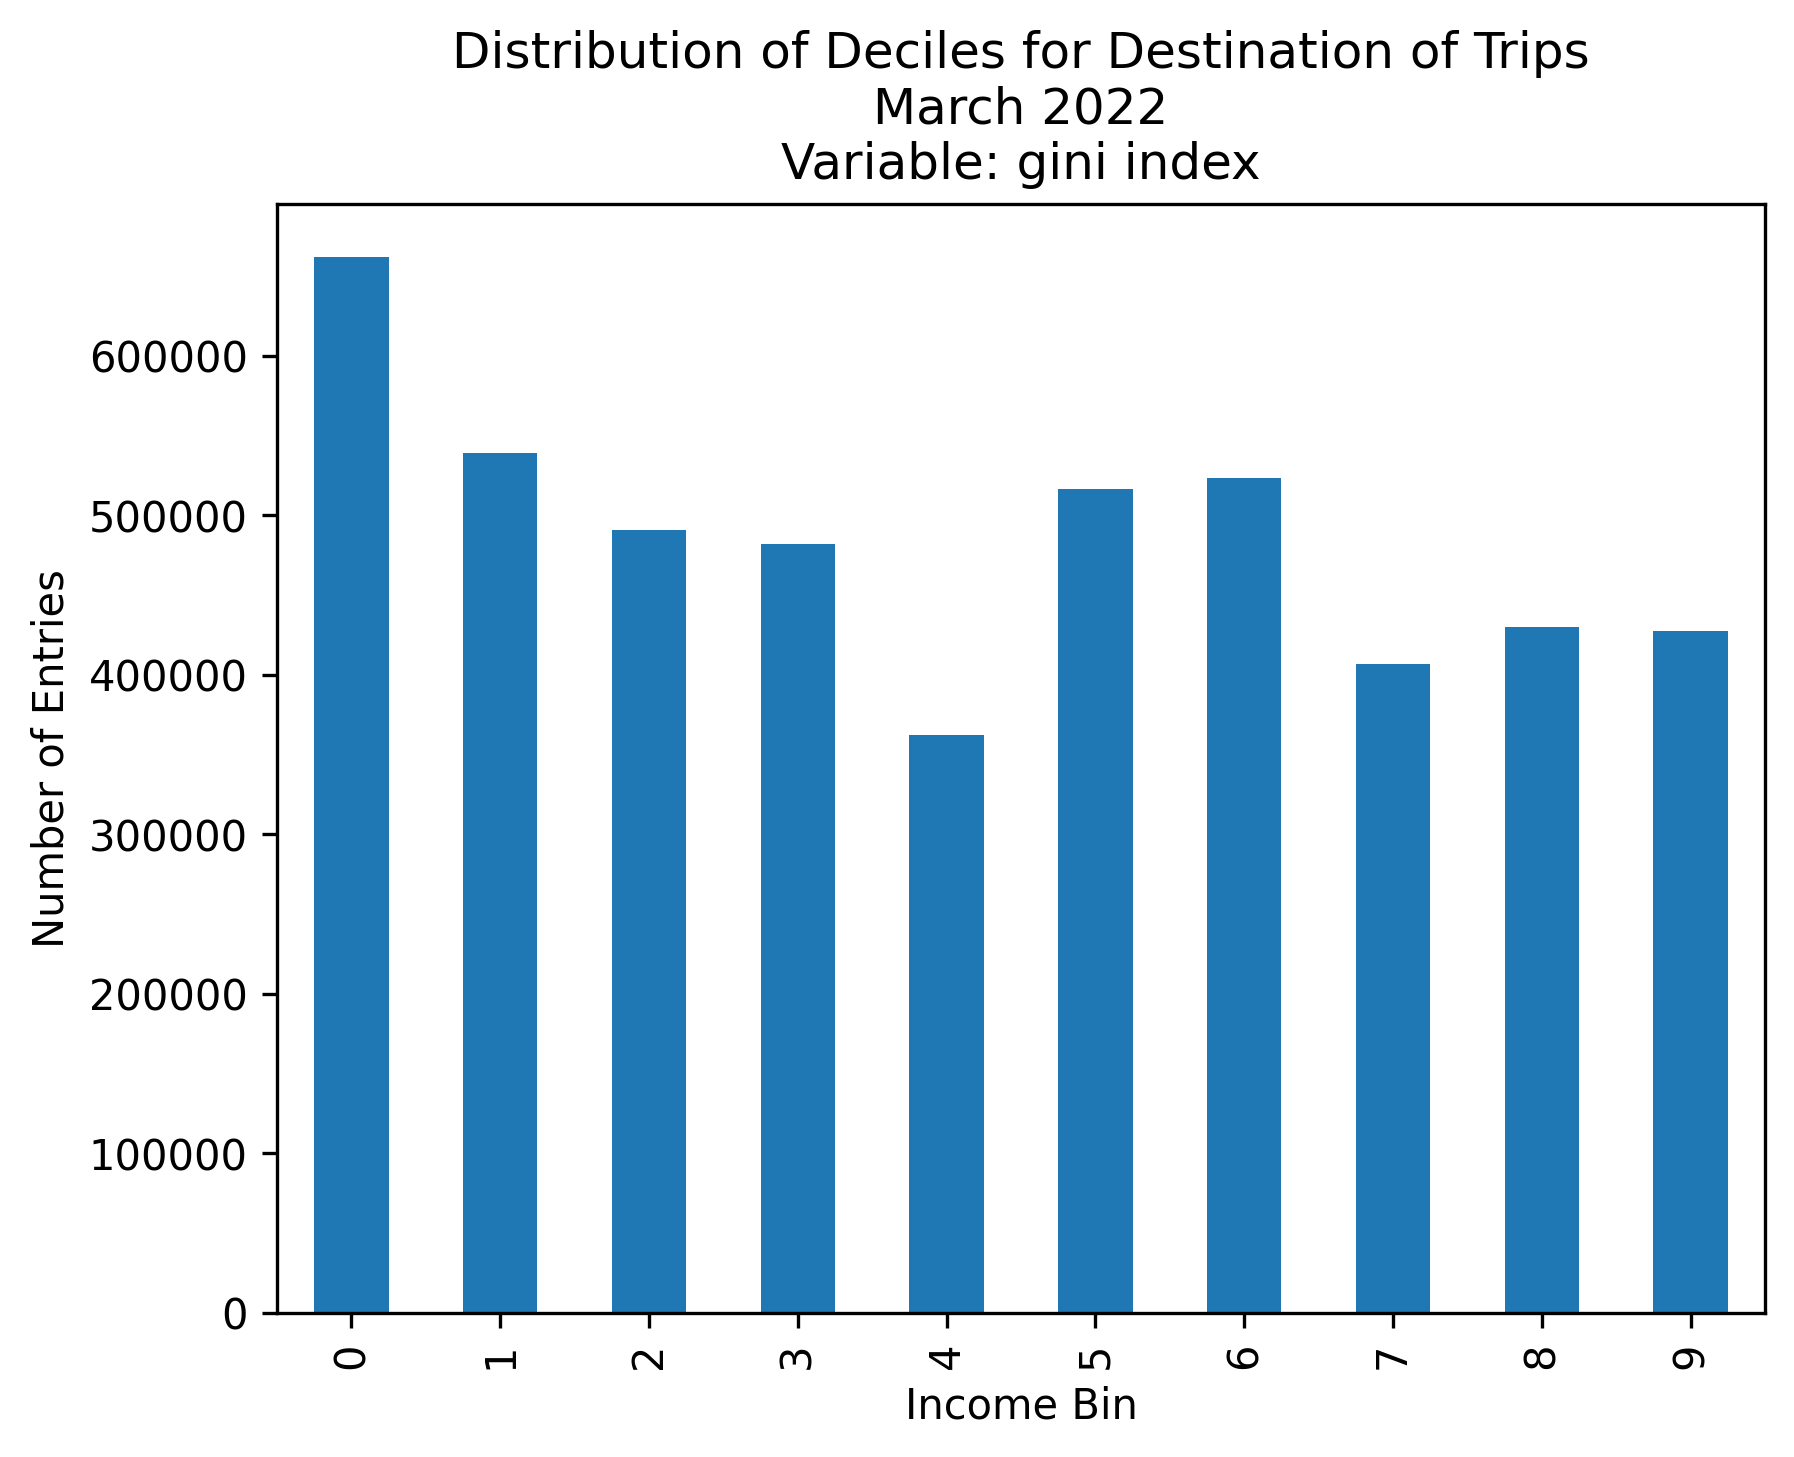
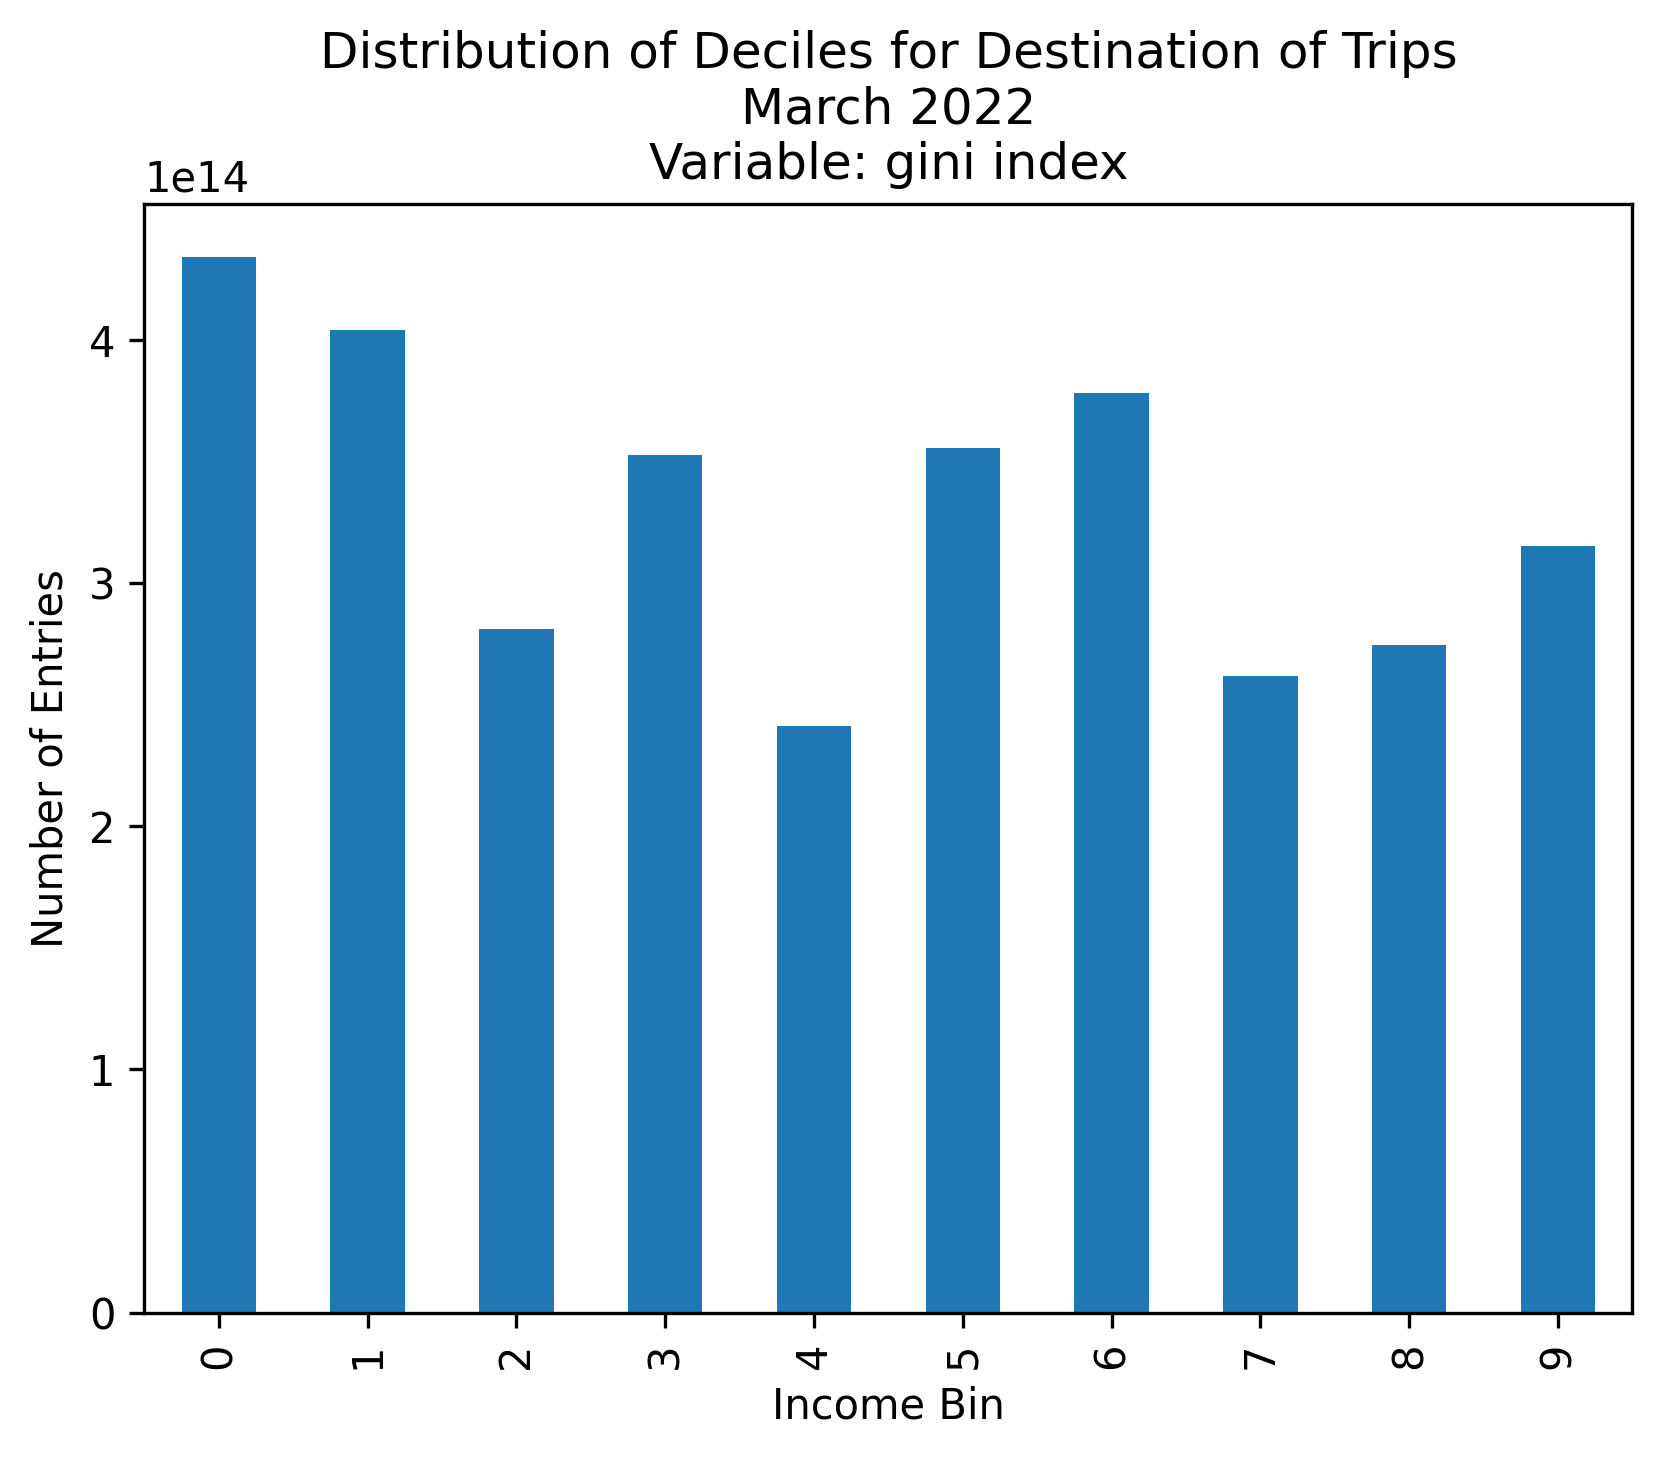
fixed count bins

diff --git a/segregation_indices/assortativity_matrix_by_destination.py b/segregation_indices/assortativity_matrix_by_destination.py
@@ -24,7 +24,7 @@ logger.addHandler(file_handler)
 # SET VARIABLES -----------------------------------------------------------------
 
 # FIXME: Make more efficient, and fix variable names to plot nicely
-var_of_interest = 'Gini Index' 
+var_of_interest = 'Median income per consumption unit' 
 n_income_deciles = 10
 
 if cfg.type_of_study == 'month':
@@ -163,7 +163,7 @@ viajes_with_income.drop(columns=['residencia', 'estudio_origen_posible', 'estudi
 # PLOT INCOME DECILES -----------------------------------------------------------------------------------------------
 
 logger.info('Plotting income deciles')
-bin_counts = viajes_with_income['income_decile'].value_counts().sort_index()
+bin_counts = viajes_with_income.groupby('income_decile')['viajes'].sum()
 bin_counts.plot(kind='bar')
 
 # 1. matplotlib. FIXME: IS this plot correct? I have to make sure it makes sense.
@@ -183,7 +183,8 @@ logger.info(f'Income deciles for {cfg.INCOME_VARS_OF_INTEREST} saved!')
 logger.info('Building assortativity matrices...')
 
 # Group by origin and destination deciles and count the trips. FIXME: Change here to focus on purpose of the trip instead of renta
-trip_counts_by_decile = viajes_with_income.groupby(['renta', 'income_decile', 'income_decile_dest']).size().reset_index(name='trip_count')
+# trip_counts_by_decile = viajes_with_income.groupby(['renta', 'income_decile', 'income_decile_dest']).size().reset_index(name='trip_count') # OLD
+trip_counts_by_decile = viajes_with_income.groupby(['renta', 'income_decile', 'income_decile_dest'])['viajes'].sum().reset_index(name='trip_count')
 districts = rent_data['ID'].unique()
 
 try:

diff --git a/segregation_indices/assortativity_matrix.py b/segregation_indices/assortativity_matrix.py
@@ -24,7 +24,7 @@ logger.addHandler(file_handler)
 # SET VARIABLES -----------------------------------------------------------------
 
 # FIXME: Make more efficient, and fix variable names to plot nicely
-var_of_interest = 'Median income per consumption unit' 
+var_of_interest = 'Gini Index' 
 n_income_deciles = 10
 
 if cfg.type_of_study == 'month':
@@ -162,7 +162,7 @@ viajes_with_income.drop(columns=['residencia', 'estudio_origen_posible', 'estudi
 # PLOT INCOME DECILES -----------------------------------------------------------------------------------------------
 
 logger.info('Plotting income deciles')
-bin_counts = viajes_with_income['income_decile'].value_counts().sort_index()
+bin_counts = viajes_with_income.groupby('income_decile')['viajes'].sum()
 bin_counts.plot(kind='bar')
 
 # 1. matplotlib. FIXME: IS this plot correct? I have to make sure it makes sense.

diff --git a/segregation_indices/config.py b/segregation_indices/config.py
@@ -25,7 +25,7 @@ DATASETS_PATH = ROOT_PATH / 'datasets'
 # NOTE: These variables need to be set by the user
 # 1. Date of interest
 
-type_of_study = 'weekend' # 'week', 'weekend', 'month' or 'morans', or 'two_weeks'
+type_of_study = 'month' # 'week', 'weekend', 'month' or 'morans', or 'two_weeks'
 
 # 2. Dynamic figures folder
 
